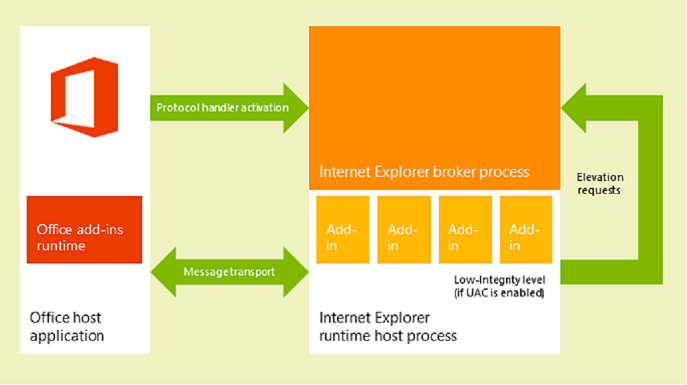
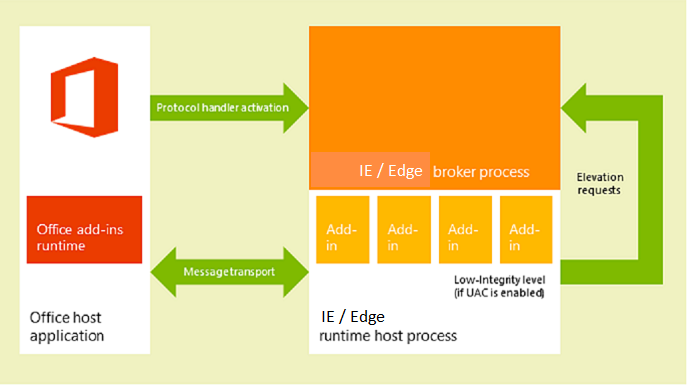
[All Hosts] (browsers) Adjust references to IE to account for Edge as needed

Changed region(s): [[0.4279, 0.374, 0.6419, 0.4987], [0.4585, 0.8104, 0.6419, 0.8416]]

diff --git a/docs/concepts/privacy-and-security.md b/docs/concepts/privacy-and-security.md
@@ -1,7 +1,7 @@
 ---
 title: Privacy and security for Office Add-ins
 description: ''
-ms.date: 06/20/2019
+ms.date: 09/09/2019
 localization_priority: Priority
 ---
 
@@ -34,7 +34,7 @@ The following sections briefly describe how the runtime architecture supports ru
 
 ### Clients on Windows and OS X devices
 
-In supported clients for desktop and tablet devices, such as Excel on Windows, and Outlook on Windows and Mac, Office Add-ins are supported by integrating an in-process component, the Office Add-ins runtime, which manages the add-in lifecycle and enables interoperability between the add-in and the client application. The add-in webpage itself is hosted out-of-process. As shown in figure 1, on a Windows desktop or tablet device, the add-in webpage is hosted inside an Internet Explorer control which, in turn, is hosted inside an add-in runtime process that provides security and performance isolation.
+In supported clients for desktop and tablet devices, such as Excel on Windows, and Outlook on Windows and Mac, Office Add-ins are supported by integrating an in-process component, the Office Add-ins runtime, which manages the add-in lifecycle and enables interoperability between the add-in and the client application. The add-in webpage itself is hosted out-of-process. As shown in figure 1, on a Windows desktop or tablet device, [the add-in webpage is hosted inside an Internet Explorer or Edge control](browsers-used-by-office-web-add-ins.md) which, in turn, is hosted inside an add-in runtime process that provides security and performance isolation.
 
 On Windows desktops, Protected Mode in Internet Explorer must be enabled for the Restricted Site Zone. This is typically enabled by default. If it is disabled, an [error will occur](https://support.microsoft.com/help/2761180/apps-for-office-don-t-start-if-you-disable-protected-mode-for-the-restricted-sites-zone-in-internet-explorer) when you try to launch an add-in.
 
@@ -218,11 +218,11 @@ Developers should also take note of the following security practices:
 
 - Developers shouldn't use ActiveX controls in Office Add-ins as ActiveX controls don't support the cross-platform nature of the add-in platform.
 
-- Content and task pane add-ins assume the same SSL settings that Internet Explorer uses by default, and allows most content to be delivered only by SSL. Outlook add-ins require all content to be delivered by SSL. Developers must specify in the **SourceLocation** element of the add-in manifest a URL that uses HTTPS, to identify the location of the HTML file for the add-in.
+- Content and task pane add-ins assume the same SSL settings that the browser uses by default, and allows most content to be delivered only by SSL. Outlook add-ins require all content to be delivered by SSL. Developers must specify in the **SourceLocation** element of the add-in manifest a URL that uses HTTPS, to identify the location of the HTML file for the add-in.
 
-    To make sure add-ins aren't delivering content by using HTTP, when testing add-ins, developers should make sure the following settings are selected in Internet Explorer and no security warnings appear in their test scenarios:
+    To make sure add-ins aren't delivering content by using HTTP, when testing add-ins, developers should make sure the following settings are selected in **Internet Options** in **Control Panel** and no security warnings appear in their test scenarios:
 
-    - Make sure the security setting,  **Display mixed content**, for the  **Internet** zone is set to **Prompt**. You can do that by selecting the following in Internet Explorer: on the  **Security** tab of the **Internet Options** dialog box, select the **Internet** zone, select **Custom level**, scroll to look for  **Display mixed content**, and select  **Prompt** if it isn't already selected.
+    - Make sure the security setting,  **Display mixed content**, for the  **Internet** zone is set to **Prompt**. You can do that by selecting the following in **Internet Options**: on the  **Security** tab, select the **Internet** zone, select **Custom level**, scroll to look for  **Display mixed content**, and select  **Prompt** if it isn't already selected.
 
     - Make sure **Warn if Changing between Secure and not secure mode** is selected in the **Advanced** tab of the **Internet Options** dialog box.
 

diff --git a/docs/concepts/resource-limits-and-performance-optimization.md b/docs/concepts/resource-limits-and-performance-optimization.md
@@ -1,7 +1,7 @@
 ---
 title: Resource limits and performance optimization for Office Add-ins
 description: ''
-ms.date: 06/20/2019
+ms.date: 09/09/2019
 localization_priority: Priority
 ---
 
@@ -93,7 +93,7 @@ While the resources limits on CPU and memory usage, crash tolerance, UI responsi
 
    For a JavaScript and jQuery code sample that shows breaking up a potentially long-running and CPU-intensive series of inputting and outputting operations on unbounded data, see [How can I give control back (briefly) to the browser during intensive JavaScript processing?](https://stackoverflow.com/questions/210821/how-can-i-give-control-back-briefly-to-the-browser-during-intensive-javascript). This example uses the [setTimeout](https://developer.mozilla.org/docs/Web/API/WindowOrWorkerGlobalScope/setTimeout) method of the global object to limit the duration of input and output. It also handles the data in defined chunks instead of randomly unbounded data.
 
-- If your add-in uses a CPU-intensive algorithm to process a large volume of data, you can use web workers to perform the long-running task in the background while running a separate script in the foreground, such as displaying progress in the user interface. Web workers do not block user activities and allow the HTML page to remain responsive. For an example of web workers, see [The Basics of Web Workers](https://www.html5rocks.com/en/tutorials/workers/basics/). See [Web Workers](https://developer.mozilla.org/docs/Web/API/Web_Workers_API) for more information about the Internet Explorer Web Workers API.
+- If your add-in uses a CPU-intensive algorithm to process a large volume of data, you can use web workers to perform the long-running task in the background while running a separate script in the foreground, such as displaying progress in the user interface. Web workers do not block user activities and allow the HTML page to remain responsive. For an example of web workers, see [The Basics of Web Workers](https://www.html5rocks.com/en/tutorials/workers/basics/). See [Web Workers](https://developer.mozilla.org/docs/Web/API/Web_Workers_API) for more information about the Web Workers API.
 
 - If your add-in uses a CPU-intensive algorithm but you can divide the data input or output into smaller sets, consider creating a web service, passing the data to the web service to off-load the CPU, and wait for an asynchronous callback.
 

diff --git a/docs/testing/attach-debugger-from-task-pane.md b/docs/testing/attach-debugger-from-task-pane.md
@@ -1,7 +1,7 @@
 ---
 title: Attach a debugger from the task pane
 description: ''
-ms.date: 08/06/2019
+ms.date: 09/09/2019
 localization_priority: Priority
 ---
 
@@ -27,13 +27,14 @@ In Visual Studio, you will see the code files in **Solution Explorer**.   You ca
 > If you don't see the Personality menu, you can debug your add-in using Visual Studio. Ensure your task pane add-in is open in Office, and then follow these steps:
 >
 > 1. In Visual Studio, choose **DEBUG** > **Attach to Process**.
-> 2. In **Attach to Process**, choose all of the available Iexplore.exe processes, and then choose the **Attach** button.
+> 2. In the **Available processes**, choose *either* all of the available `Iexplore.exe` processes *or* all of the available `MicrosoftEdge*.exe` process, depending on [whether your add-in is using IE or Edge](../concepts/browsers-used-by-office-web-add-ins.md), and then choose the **Attach** button.
 
 For more information about debugging in Visual Studio, see the following:
 
 -	To launch and use the DOM Explorer in Visual Studio, see Tip 4 in the [Tips and Tricks](https://blogs.msdn.microsoft.com/officeapps/2013/04/16/building-great-looking-apps-for-office-using-the-new-project-templates/#tips_tricks) section of the [Building great-looking apps for Office using the new project templates](https://blogs.msdn.microsoft.com/officeapps/2013/04/16/building-great-looking-apps-for-office-using-the-new-project-templates) blog post.
 -	To set breakpoints, see [Using Breakpoints](/visualstudio/debugger/using-breakpoints?view=vs-2015).
 -	To use F12, see [Using the F12 developer tools](/previous-versions/windows/internet-explorer/ie-developer/samples/bg182326(v=vs.85)).
+-   To use the Edge Developer Tools, see [Microsoft Edge DevTools](https://www.microsoft.com/p/microsoft-edge-devtools-preview/9mzbfrmz0mnj?activetab=pivot%3Aoverviewtab).
 
 ## See also
 

diff --git a/docs/project/project-add-ins.md b/docs/project/project-add-ins.md
@@ -1,7 +1,7 @@
 ---
 title: Task pane add-ins for Project
 description: ''
-ms.date: 07/05/2019
+ms.date: 09/09/2019
 ms.topic: overview
 scenarios: getting-started
 localization_priority: Priority
@@ -140,7 +140,7 @@ In Project 2013, you can install add-ins as stand-alone solutions on a file shar
 There can be multiple add-in manifest XML files and subdirectories in a file share. You can add or remove manifest directory locations and catalogs by using the  **Trusted Add-in Catalogs** tab in the **Trust Center** dialog box in Project 2013. To show an add-in in Project, the **SourceLocation** element in a manifest must point to an existing website or HTML source file.
 
 > [!NOTE]
-> Internet Explorer 9 (or later) must be installed, but does not have to be the default browser. Office Add-ins require components in Internet Explorer 9. The default browser can be Internet Explorer 9, Safari 5.0.6, Firefox 5, Chrome 13, or a later version of one of these browsers.
+> If you are developing on a Windows computer, either Internet Explorer or Edge must be installed. For more information see [Browsers used by Office Add-ins](../concepts/browsers-used-by-office-web-add-ins.md).
 
 In Procedure 2, the Bing Search add-in is installed on the local computer where Project 2013 is installed. However, because the add-in infrastructure does not directly use local file paths such as  `C:\Project\AppManifests`, you can create a network share on the local computer. If you prefer, you can create a file share on a remote computer.
 

diff --git a/docs/testing/testing-and-troubleshooting.md b/docs/testing/testing-and-troubleshooting.md
@@ -1,7 +1,7 @@
 ---
 title: Troubleshoot user errors with Office Add-ins
 description: ''
-ms.date: 07/29/2019
+ms.date: 09/09/2019
 localization_priority: Priority
 ---
 
@@ -35,7 +35,7 @@ You can also give us feedback: if using Excel on Windows or Mac, you can report 
 
 ## Outlook add-in doesn't work correctly
 
-If an Outlook add-in running on Windows is not working correctly, try turning on script debugging in Internet Explorer. 
+If an Outlook add-in running on Windows, and [using Internet Explorer](../concepts/browsers-used-by-office-web-add-ins.md), is not working correctly, try turning on script debugging in Internet Explorer. 
 
 
 - Go to Tools >  **Internet Options** > **Advanced**.
@@ -83,7 +83,7 @@ To resolve the issue, end users or administrators can add the domain of the add-
 
 To add a URL to your list of trusted sites:
 
-1. In Internet Explorer, choose the Tools button, and go to **Internet options** > **Security**.
+1. In **Control Panel**, go to **Internet options** > **Security**.
 2. Select the **Trusted sites** zone, and choose **Sites**.
 3. Enter the URL that appears in the error message, and choose **Add**.
 4. Try to use the add-in again. If the problem persists, verify the settings for the other security zones and ensure that the add-in domain is in the same zone as the URL that is displayed in the address bar of the Office application.
